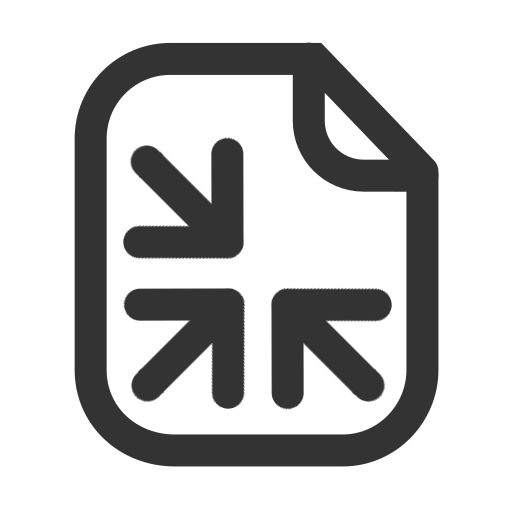
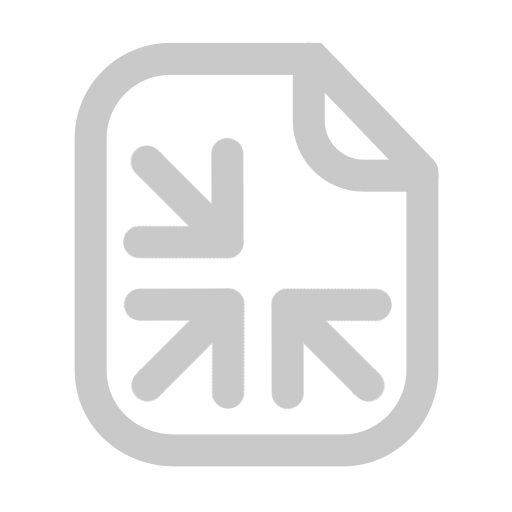
Added header with chapter selection options, changed some colors

Changed region(s): [[0.125, 0.0625, 0.875, 0.9375]]

diff --git a/src/test/class.mangaReader.js b/src/test/class.mangaReader.js
@@ -28,6 +28,15 @@ class MangaReader {
     this.currentPage = parseInt(
       window.location.href.split("page-")[1].split("/")[0]
     );
+
+    this.updateTitle();
+  }
+
+  updateTitle() {
+    document.title =
+      window.location.href.split("/")[6].replaceAll("-", "\xa0") +
+      "\xa0" +
+      this.currentChapter;
   }
 
   updateUrl() {
@@ -68,6 +77,9 @@ class MangaReader {
     this.setOverview(this.src);
     //SET STEPS
     this.retrieveJson();
+
+    //ESTO NO LO ESTA AGARRANDO NSE PQ
+    document.getElementById("chapterSelect").value = this.currentChapter;
   }
 
   //JSON JSON JSON
@@ -79,6 +91,8 @@ class MangaReader {
       for (var j = 0; j < data.length; j++) {
         // FILL chapters ARRAY WHITH PAGE AMOUNTS
         reader.chapters[data[j].chapter] = data[j].pages.length - 1;
+
+        reader.setChapterSelect(data[j].title, j + 1);
 
         // DO ONLY IF CURRENT CHAPTER
         if (parseInt(data[j].chapter) === parseInt(reader.currentChapter)) {
@@ -183,6 +197,7 @@ class MangaReader {
   nextChapter() {
     if (this.currentChapter < this.chapters.length - 1) {
       this.currentChapter++;
+      this.updateTitle();
       this.currentPage = 0;
 
       if (this.overviewMode || this.steps[this.currentPage] < 1) {
@@ -200,6 +215,13 @@ class MangaReader {
         "url(../assets/unable_right.png)";
       this.noMoreBox();
     }
+    document.getElementById("chapterSelect").value = this.currentChapter;
+  }
+
+  nextChapterButton() {
+    this.nextChapter();
+    this.retrieveJson();
+    this.updateUrl();
   }
 
   //PREV SLIDE / PAGE
@@ -264,6 +286,7 @@ class MangaReader {
   prevChapter() {
     if (this.currentChapter > 1) {
       this.currentChapter--;
+      this.updateTitle();
       this.currentPage = this.chapters[this.currentChapter];
       if (this.overviewMode || this.steps[this.currentPage] < 1) {
         this.showZoom("show");
@@ -279,6 +302,47 @@ class MangaReader {
         "url(../assets/unable_left.png)";
 
       this.noMoreBox();
+    }
+    document.getElementById("chapterSelect").value = this.currentChapter;
+  }
+
+  prevChapterButton() {
+    this.prevChapter();
+    this.retrieveJson();
+    this.updateUrl();
+  }
+
+  selectorIndex = 1;
+
+  setChapterSelect(title, chapter) {
+    if (chapter === this.selectorIndex) {
+      var temp =
+        '<option value="' +
+        chapter +
+        '">#' +
+        chapter +
+        " - " +
+        title +
+        "</option>";
+      this.selectorIndex++;
+      document.getElementById("chapterSelect").innerHTML += temp;
+    }
+  }
+
+  chapterSelector(chapter) {
+    if (this.currentChapter !== chapter) {
+      if (!this.overviewMode) {
+        this.overviewSwitchFunc();
+      }
+      this.currentChapter = chapter;
+      this.currentPage = 0;
+      this.currentStep = 0;
+      this.retrieveJson();
+      this.updateUrl();
+      document.getElementById("chapterSelect").value = this.currentChapter;
+
+      this.updateTitle();
+      document.getElementById("pageTextField").value = this.currentPage;
     }
   }
 
@@ -304,12 +368,14 @@ class MangaReader {
     } else {
       this.overviewMode = !this.overviewMode;
       if (this.overviewMode) {
+        this.showZoom("show");
         var switchState = "overview";
         this.updateStyle(this.stepValues[0]);
         this.changeFrame([this.stepValues[0]]);
         // hide away frame
         document.getElementById("frame-child").style.opacity = 0;
       } else {
+        this.showZoom("hide");
         this.updateStyle(this.stepValues[this.currentStep]);
         document.getElementById("frame-child").style.opacity = 0.99;
         this.changeFrame([this.stepValues[this.currentStep]]);
@@ -353,7 +419,7 @@ class MangaReader {
     if (this.zoom) {
       this.moveImageFunc();
       document.getElementById("pageImage").draggable = false;
-      document.getElementById("zoomSwitch").title = "Close zoom";
+      document.getElementById("zoomSwitch").title = "Cerrar zoom";
       document.getElementById("zoomIcon").src = "../assets/close_zoom.png";
       document.getElementById("readerGui").style.cursor = "grab";
       this.showZoom("snuck");
@@ -375,11 +441,13 @@ class MangaReader {
 
   showZoom(show) {
     if (show === "show") {
+      document.getElementById("navBar").style.top = "-0.3rem";
       document.getElementById("zoomSwitch").style.display = "block";
       setTimeout(() => {
         document.getElementById("zoomSwitch").style.marginBottom = "4rem";
       }, 1);
     } else if (show === "hide") {
+      document.getElementById("navBar").style.top = "-2.3rem";
       document.getElementById("zoomSwitch").style.marginBottom = "10px";
       setTimeout(() => {
         document.getElementById("zoomSwitch").style.display = "none";
@@ -582,6 +650,12 @@ class MangaReader {
     var pageSize;
     if (screen.height > screen.width) {
       pageSize = screen.width / 2;
+      document.getElementById("prevChapter").innerHTML = "<";
+      document.getElementById("nextChapter").innerHTML = ">";
+      document.getElementById("prevChapter").style.width = "2rem";
+      document.getElementById("nextChapter").style.width = "2rem";
+      document.getElementById("chapterSelect").style.width = "10rem";
+      document.getElementById("chapterSelect").style.marginRight = "-5rem";
     } else {
       pageSize = screen.height / 3 - screen.height / 25;
     }
@@ -613,7 +687,7 @@ class MangaReader {
             document.getElementById("readerGui").style.display = "none";
           }, 500);
         }
-      }, 500);
+      }, 1000);
     }
   }
 
@@ -626,36 +700,44 @@ class MangaReader {
       //NO MORE BOX
       '<div id="noMoreBox" style="position: absolute;border-radius: 2rem;background-color: #303030;padding: 0.35rem 0.5rem;width: 15rem;height: 9rem;left: 50%;top: 50%;margin-left: -7.5rem;margin-top: -4.5rem;transition: all 350ms ease-in-out 0ms;transform-style: preserve-3d;display: none;opacity: 0;z-index: 2">' +
       //CLOSE BOX
-      '<button id="closeButton" title="Cerrar Alerta" onclick="reader.closeNoMoreBox();" style="transition: all 350ms ease-in-out 0ms;transform-style: preserve-3d;position: absolute;border: none;background-color: #303030;border-radius: 2rem;right: -0.5rem;height: 2rem;width: 2rem;padding: 0.1rem 0.1rem;margin-top: -1rem;display: flex;justify-content: center;cursor: pointer;">' +
+      '<button id="closeButton" title="Cerrar alerta" onclick="reader.closeNoMoreBox();" style="transition: all 350ms ease-in-out 0ms;transform-style: preserve-3d;position: absolute;border: none;background-color: #303030;border-radius: 2rem;right: -0.5rem;height: 2rem;width: 2rem;padding: 0.1rem 0.1rem;margin-top: -1rem;display: flex;justify-content: center;cursor: pointer;">' +
       '<img id="closeButtonIcon" src="../assets/close_icon.png" height="30rem"></button>' +
       '<h5 style="margin: auto;margin-top: 8%;text-align: center;color: #ffffff;">NO HAY MAS MANGA PARA CARGAR, ELIGE UNA OPCION</h5>' +
       //HOME BUTTON
-      '<button id="homeButton" title="Volver al Home" onclick="alert(' +
-      "'NO MORE CHAPTERS TO LOAD, BACK TO HOME PAGE'" +
+      '<button id="homeButton" title="Volver al home" onclick="alert(' +
+      "'BACK TO HOME PAGE'" +
       ');" style="position: absolute;left: 20%;top: 50%;border-radius: 2rem;border: none;color: #b63333;padding: 0.35rem 0.5rem;background-position: center;background-size: contain;cursor: pointer;">' +
       '<img id="homeButtonIcon" src="../assets/home.png" height="30rem"></button>' +
       //BACK TO MANGA BUTTON
-      '<button id="backButton" title="Volver Atrás" onclick="alert(' +
-      "'NO MORE CHAPTERS TO LOAD, BACK TO MANGA PAGE'" +
+      '<button id="backButton" title="Volver atrás" onclick="alert(' +
+      "'BACK TO MANGA PAGE'" +
       ');" style="position: absolute;right: 20%;top: 50%;border-radius: 2rem;border: none;color: #b63333;padding: 0.35rem 0.5rem;background-position: center;background-size: contain;cursor: pointer;">' +
       '<img id="backButtonIcon" src="../assets/back.png" height="30rem"></button></div>';
     var temp =
+      //CHAPTER NAVIGATION BAR
+      '<div id="navBar" style="position: absolute;background-color: #cacaca;padding: 0.35rem 0.5rem;width: 100%;height: 1.2rem;left: -0.3rem;top: -0.3rem;border: 0.3rem solid #303030;transition: all 350ms ease-in-out 0ms;transform-style: preserve-3d;">' +
+      '<button id="backButton" onclick="alert(' +
+      "'BACK TO MANGA PAGE'" +
+      ');" title="Volver al manga" style="position: absolute;left: -0.1rem;font-size: 1rem;width: 2rem;height: 2.35rem;margin-top: -0.7rem;color: #303030;border: 0.1rem solid #303030;"><</button>' +
+      '<select id="chapterSelect" onclick="reader.chapterSelector(this.value)" title="Selecionar capitulo" style="position: absolute;right: 50%;margin-right: -5.5rem;font-size: 1rem;width: 11rem;height: 2.35rem;margin-top: -0.7rem;color: #303030;border: 0.1rem solid #303030;font-family: &quot;Comic Neue&quot;, cursive;" comic=""></select>' +
+      '<button id="prevChapter" onclick="reader.prevChapterButton()" title="Capitulo previo" style="position: absolute;left: 20%;font-size: 1rem;width: 7rem;height: 2.35rem;margin-top: -0.7rem;color: #303030;border: 0.1rem solid #303030;"><- previo</button>' +
+      '<button id="nextChapter" onclick="reader.nextChapterButton()" title="Próximo capitulo" style="position: absolute;right: 20%;font-size: 1rem;width: 7rem;height: 2.35rem;margin-top: -0.7rem;color: #303030;border: 0.1rem solid #303030;">siguiente -></button></div>' +
       //ZOOM
       '<button id="zoomSwitch" onclick="reader.zoomFunc()" title="Zoom" style="position: absolute;margin-left: 10px;margin-bottom: 4rem;left: 0px;bottom: 0px;border-radius: 2rem;border: none;color: #303030;padding: 0.35rem 0.5rem;background-position: center;background-size: contain;cursor: pointer; transition: all 350ms ease-in-out 0ms;transform-style: preserve-3d;cursor:default">' +
       '<img id="zoomIcon" src="../assets/zoom.png" height="30rem" style="cursor:pointer"></button>' +
       '<div id="zoomSlider" data-z="2" onclick="reader.sliderFunc(0)" style="transition: all 350ms ease-in-out 0ms;transform-style: preserve-3d;">' +
       '<input id="slider" style="transition: all 350ms ease-in-out 0ms;transform-style: preserve-3d;" type="range" orient="vertical" data-vertical="true" min="1" max="150" value="30" class="slider"></div>' +
       //OVERVIEW SWITCH
-      '<button id="overviewSwitch" onclick="reader.overviewSwitchFunc()" title="Switch view" style="position: absolute;margin-left: 10px;margin-bottom: 10px;left: 0px;bottom: 0px;border-radius: 2rem;border: none;color: #303030;padding: 0.35rem 0.5rem;background-position: center;background-size: contain;cursor: pointer;transition: all 350ms ease-in-out 0ms;transform-style: preserve-3d;">' +
+      '<button id="overviewSwitch" onclick="reader.overviewSwitchFunc()" title="Cambiar vista" style="position: absolute;margin-left: 10px;margin-bottom: 10px;left: 0px;bottom: 0px;border-radius: 2rem;border: none;color: #303030;padding: 0.35rem 0.5rem;background-position: center;background-size: contain;cursor: pointer;transition: all 350ms ease-in-out 0ms;transform-style: preserve-3d;">' +
       '<img id="overviewIcon" src="../assets/overview.png" height="30rem"/></button>' +
       //NEXT PREV BUTTON
-      '<button id="nextButton" onclick="reader.nextButtonFunc()" title="Next" style="transition: all 350ms ease-in-out 0ms;transform-style: preserve-3d;"></button>' +
-      '<button id="prevButton" onclick="reader.prevButtonFunc()" title="Previous" style="transition: all 350ms ease-in-out 0ms;transform-style: preserve-3d;"></button>' +
+      '<button id="nextButton" onclick="reader.nextButtonFunc()" title="Siguiente" style="transition: all 350ms ease-in-out 0ms;transform-style: preserve-3d;"></button>' +
+      '<button id="prevButton" onclick="reader.prevButtonFunc()" title="Previo" style="transition: all 350ms ease-in-out 0ms;transform-style: preserve-3d;"></button>' +
       //PAGE INPUT
       '<div id="pageInput" style="cursor: pointer;display: flex;height: fit-content;position: absolute;align-items: center;margin-right: 10px;margin-bottom: 10px;bottom:0px;right: 0px;border-radius: 2rem;background-color: #b63333;border: none;padding: 0rem 0.4rem;width: 3.2rem;background-position: center;background-size: contain;font-size: 1.25rem;text-align:left">' +
-      '<input id="pageTextField" type="text" onkeypress="return reader.onlyNumberKey(event)" onkeydown="reader.pageSelector(this)" maxlength="3" value="0" max="999" min="0" style="color:#303030;width: 1.15rem;align-items: center;background-color:transparent;border: none;font-size: 1.25rem;text-align:right" title="Choose page">/' +
-      '<a id="pageAmount" title="Current page" ></a></div>';
-    document.getElementById("noMoreBoxMEME").innerHTML += aux;
+      '<input id="pageTextField" type="text" onkeypress="return reader.onlyNumberKey(event)" onkeydown="reader.pageSelector(this)" maxlength="3" value="0" max="999" min="0" style="color:#303030;width: 1.15rem;align-items: center;background-color:transparent;border: none;font-size: 1.25rem;text-align:right" title="Selecciona página">/' +
+      '<a id="pageAmount" title="Páginas del capitulo actual" ></a></div>';
+    document.getElementById("noMoreBoxDiv").innerHTML += aux;
     document.getElementById("readerGui").innerHTML = temp;
   }
 

diff --git a/src/test/mangaReader.html b/src/test/mangaReader.html
@@ -1,6 +1,7 @@
 <!DOCTYPE html>
 <html>
   <head>
+    <title>Kanpai Manga Reader</title>
     <meta charset="utf-8" />
     <meta
       name="viewport"
@@ -154,6 +155,7 @@
       }
 
       #backButton {
+        font-family: "Comic Neue", cursive;
         background-color: #b63333;
       }
 
@@ -176,13 +178,51 @@
       #closeButton:active {
         transform: scale(1);
       }
+
+      #prevChapter {
+        font-family: "Comic Neue", cursive;
+        background-color: #cacaca;
+      }
+
+      #prevChapter:hover {
+        background-color: #ffffff;
+      }
+
+      #prevChapter:active {
+        background-color: #b63333;
+      }
+
+      #nextChapter {
+        font-family: "Comic Neue", cursive;
+        background-color: #cacaca;
+      }
+
+      #nextChapter:hover {
+        background-color: #ffffff;
+      }
+
+      #nextChapter:active {
+        background-color: #b63333;
+      }
+
+      #chapterSelect {
+        background-color: #cacaca;
+      }
+
+      #chapterSelect:hover {
+        background-color: #ffffff;
+      }
+
+      #chapterSelect:active {
+        background-color: #b63333;
+      }
     </style>
   </head>
 
   <script type="text/javascript"></script>
 
   <body>
-    <div id="noMoreBoxMEME"></div>
+    <div id="noMoreBoxDiv"></div>
     <div
       id="readerGui"
       style="
